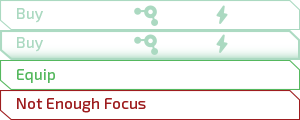
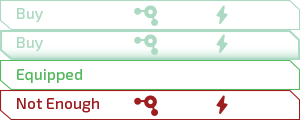
Update status

Changed region(s): [[0.33, 0.775, 0.54, 0.975], [0.18, 0.575, 0.3, 0.7], [0.72, 0.8, 0.78, 0.95]]

diff --git a/game/src/equip.cpp b/game/src/equip.cpp
@@ -354,12 +354,12 @@ Equip::draw_equipments()
         env->canvas->draw(Line(a, b), color);
 
         font->set_size(16);
-        if (atoi(get_equipment(m_equipment, "m").c_str()) <= m_character->military() and
-            atoi(get_equipment(m_equipment, "p").c_str()) <= m_character->psionic() and
-            atoi(get_equipment(m_equipment, "t").c_str()) <= m_character->tech() and
-            m_status->state() != Button::ACTIVE)
+        if (m_status->state() != Button::ACTIVE)
         {
-            if (atoi(get_equipment(m_equipment, "matter").c_str()) > Colony(m_slot).matter() or
+            if (atoi(get_equipment(m_equipment, "m").c_str()) > m_character->military() or
+                atoi(get_equipment(m_equipment, "p").c_str()) > m_character->psionic() or
+                atoi(get_equipment(m_equipment, "t").c_str()) > m_character->tech() or
+                atoi(get_equipment(m_equipment, "matter").c_str()) > Colony(m_slot).matter() or
                 atoi(get_equipment(m_equipment, "energy").c_str()) > Colony(m_slot).energy())
             {
                 color = Color(154, 6, 6);
